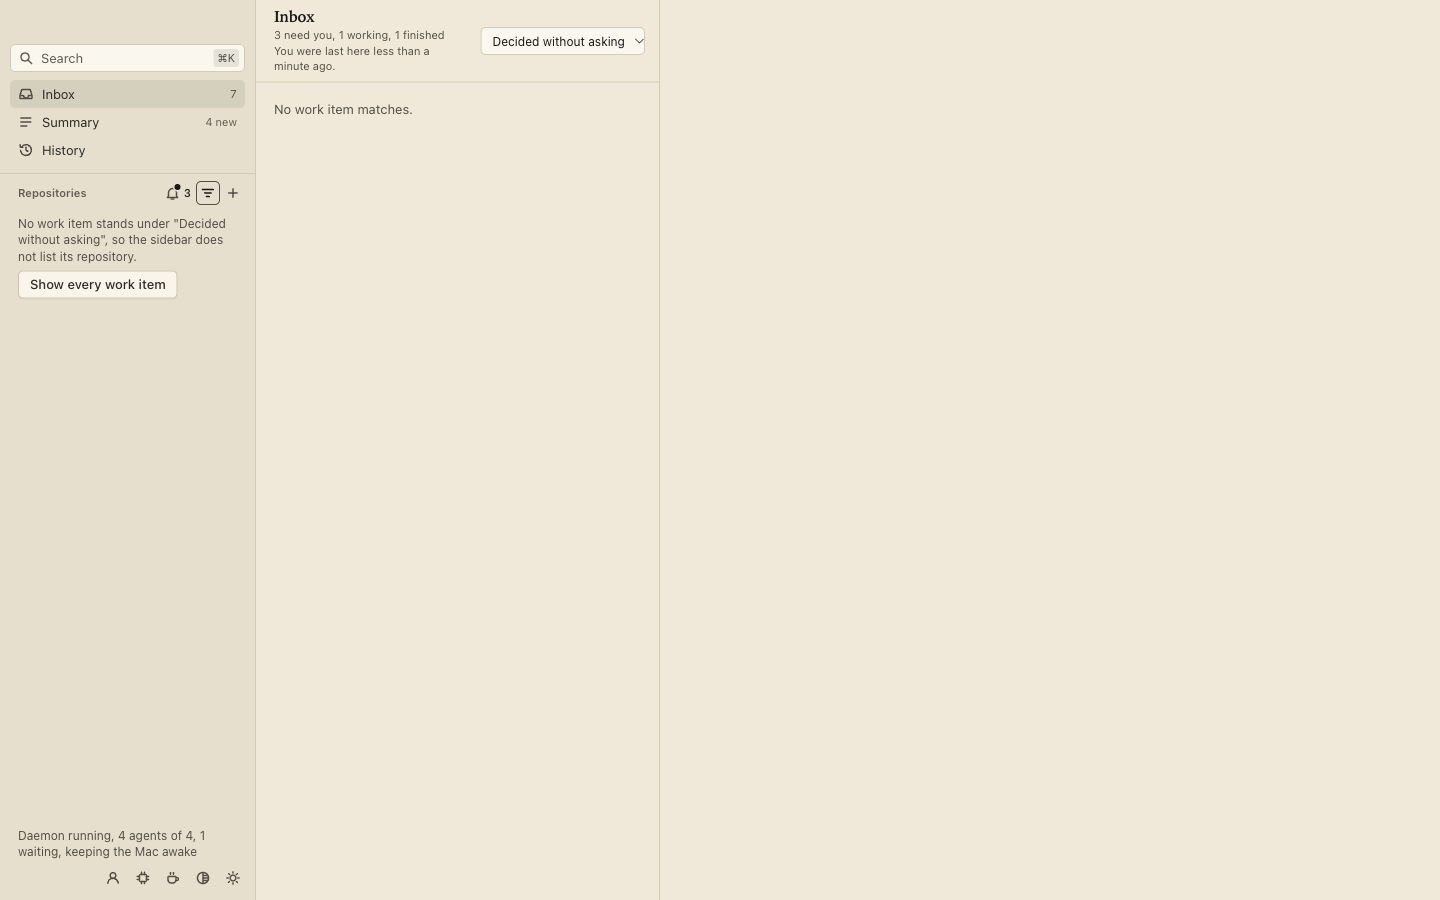
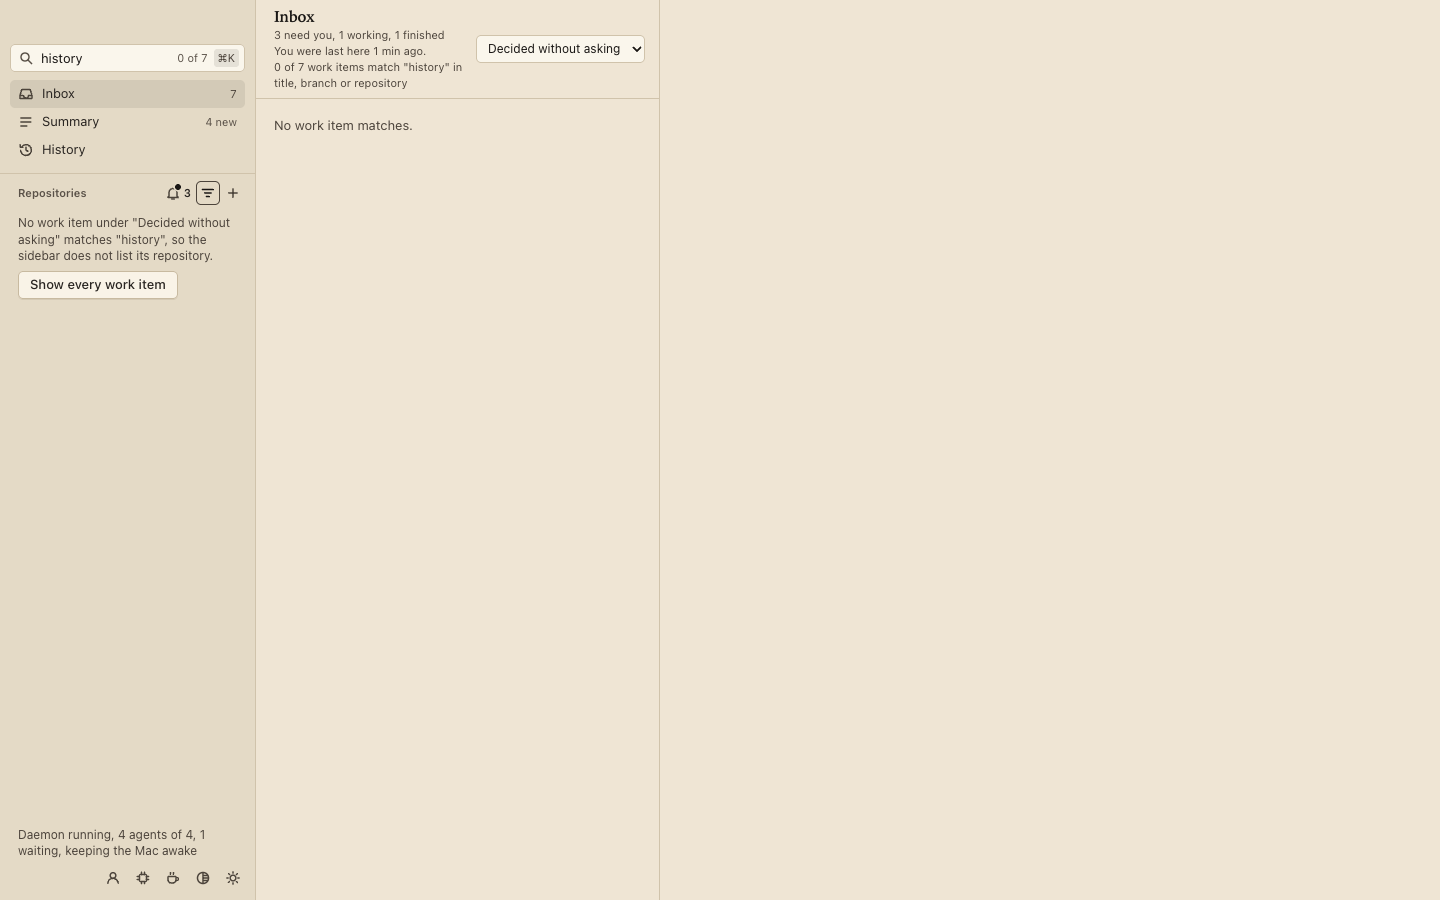
chore: take the narrowed shots again after the merge of the release
The release's scene leaves the parked work item under "Decided without
asking", so the narrowed view also types a search, and its six shots in
every theme and appearance are replaced with the run at c73d1b93.

Seal-Routing: 1795632146-215-a-filter-that-hides-everything-says-so

diff --git a/seal/threads/1795632146-215-a-filter-that-hides-everything-says-so/gaps.md b/seal/threads/1795632146-215-a-filter-that-hides-everything-says-so/gaps.md
@@ -6,9 +6,9 @@
 |---|---|
 | Every test file Phase 1 did not run whose cases load the renderer it changed: each built-app file starts the app from `index.html`, `sidebar.ts`, `renderer.ts`, `view.ts` and `themes.css`. Also the repository-wide suite, the typecheck of every package, and the count of headings and table rows across `docs/*.md` against their `.ko.md` editions | the orchestrator, at the broad gate |
 | closed `work-item-menu.test.ts` as a whole at `57bcf3ab` and later. It ran whole at `22c8cb83`, and only its new case's inbox count changed after that run (`trail/phases/phase-1.md`) | the fix pass of round 1 ran the file whole at `47b92bd1`, after its last case gained the hidden repository: 31 passed (`node scripts/test-in-electron.mjs test/work-item-menu.test.ts` in `apps/desktop`) |
-| closed how the edge on the filter and the empty sidebar's sentence look in each theme and appearance | the screenshot run of Phase 2 at `6b7161d3`, with `OWLERY_SCREENSHOT_THEMES=all`, passed and wrote 84 shots. Its `narrowed` view waited until the sentence, the button, the class `on`, the title and a computed edge stood. The crafter read the six `narrowed` shots, committed in `7f3f35aa` under `screenshots/` (`trail/phases/phase-2.md`) |
-| The wait of the screenshot run's `narrowed` view was never seen to fail. The run is a built-app batch that ran once in Phase 2, so no `seal mutate` run broke the sentence, the class or the edge under it. The unit cases of `view.test.ts` and the built-app case of `work-item-menu.test.ts` pin the same sentence's form, the class and the edge (`trail/phases/phase-1.md`) | the orchestrator, who decides whether a second screenshot run is worth the machine's time |
+| closed how the edge on the filter and the empty sidebar's sentence look in each theme and appearance | the screenshot run of Phase 2 at `6b7161d3`, with `OWLERY_SCREENSHOT_THEMES=all`, passed and wrote 84 shots. Its `narrowed` view waited until the sentence, the button, the class `on`, the title and a computed edge stood. The crafter read the six `narrowed` shots, committed in `7f3f35aa` under `screenshots/` (`trail/phases/phase-2.md`). The merge of `origin/release/v0.0.5` at `783e2331` gave the scene's parked work item a reversed decision, so the view now also types "history" into the search field. The run at the merge commit `c73d1b93`, with `OWLERY_SCREENSHOT_THEMES=all`, passed and wrote 108 shots. The crafter read the six `narrowed` shots, which say `No work item under "Decided without asking" matches "history", so the sidebar does not list its repository.`, and they replace the earlier six under `screenshots/` |
+| The wait of the screenshot run's `narrowed` view was never seen to fail. The run is a built-app batch that ran in Phase 2 and again after the merge of `783e2331`, so no `seal mutate` run broke the sentence, the class or the edge under it. The unit cases of `view.test.ts` and the built-app case of `work-item-menu.test.ts` pin the same sentence's form, the class and the edge (`trail/phases/phase-1.md`) | the orchestrator, who decides whether a second screenshot run is worth the machine's time |
 
 ## Not done
 
-The screenshot run of Phase 2 wrote a shot of every view, and only the six `narrowed` shots are committed. In each other view the filter stands at "All" with nothing typed and the sidebar lists its repository, so this work draws none of them differently. `docs/design.md` *A pull request that changes the window carries its screenshots* asks for a shot of each view the pull request changed. The other shots stand in the crafter's scratch directory and are not committed.
+The screenshot runs of Phase 2 and of the merge of `783e2331` each wrote a shot of every view, and only the six `narrowed` shots are committed. In each other view the filter stands at "All" with nothing typed and the sidebar lists its repository, so this work draws none of them differently. `docs/design.md` *A pull request that changes the window carries its screenshots* asks for a shot of each view the pull request changed. The other shots stand in the crafter's scratch directory and are not committed.

diff --git a/seal/threads/1795632146-215-a-filter-that-hides-everything-says-so/changelog.md b/seal/threads/1795632146-215-a-filter-that-hides-everything-says-so/changelog.md
@@ -5,4 +5,4 @@ Issue #215. A state chosen in the sidebar's filter, or a search typed above it, 
 - **An empty sidebar says why.** Where a filter or a search leaves no repository, the sidebar says so in their place and names what narrowed it, for example: `No work item stands under "Needs you", so the sidebar lists none of its 2 repositories.` With a search typed it says `No work item matches "logs"`, or `No work item under "Needs you" matches "logs"` where both narrow. With one repository it ends `so the sidebar does not list its repository.` No sentence stands where a repository is left, or where every repository is hidden, since the button under the sidebar already says how many are hidden.
 - **One press shows every work item again.** Under the sentence stands "Show every work item". It chooses All in the filter, empties the search field and widens the list in front too. The keyboard goes to the first repository's row.
 - **The filter's icon marks a narrowed sidebar by an edge as well as its ink.** While a state is chosen or a search is typed, the icon stands inside a thin edge in every theme. Pointing at it says what it shows, for example `Showing: Needs you, matching "logs"`.
-- **For a contributor:** themes gain the token `--on-edge`, the edge an icon's button takes while what it turns on is on. `pnpm run screenshots` now also captures the sidebar that a filter leaves with no repository, as `<theme>-<appearance>-narrowed.png`.
+- **For a contributor:** themes gain the token `--on-edge`, the edge an icon's button takes while what it turns on is on. `pnpm run screenshots` now also captures the sidebar that a filter and a search leave with no repository, as `<theme>-<appearance>-narrowed.png`.
